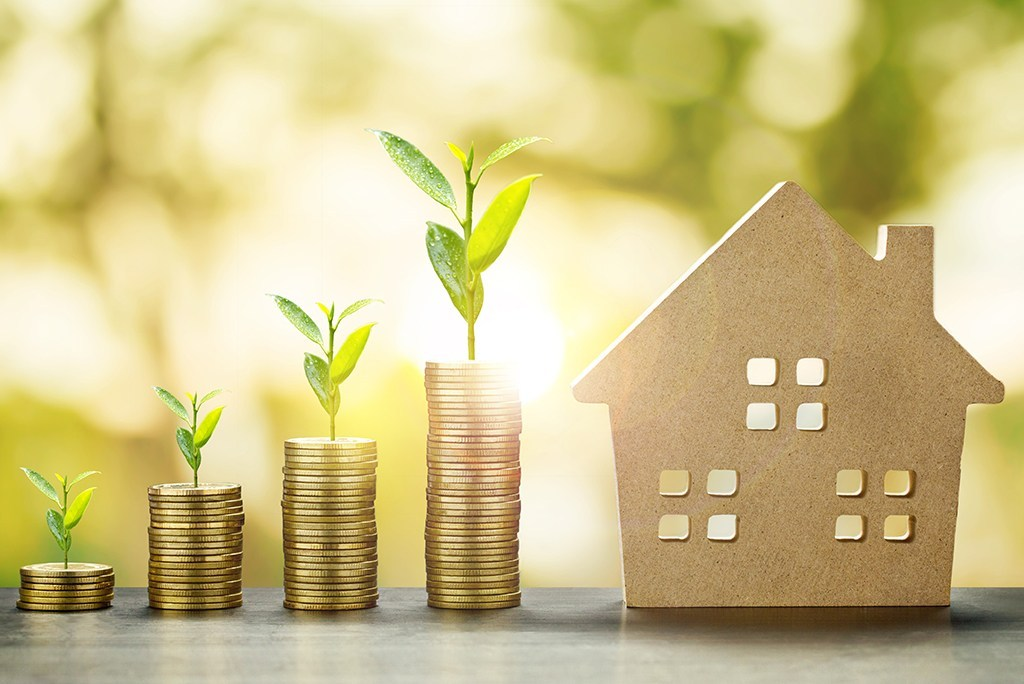
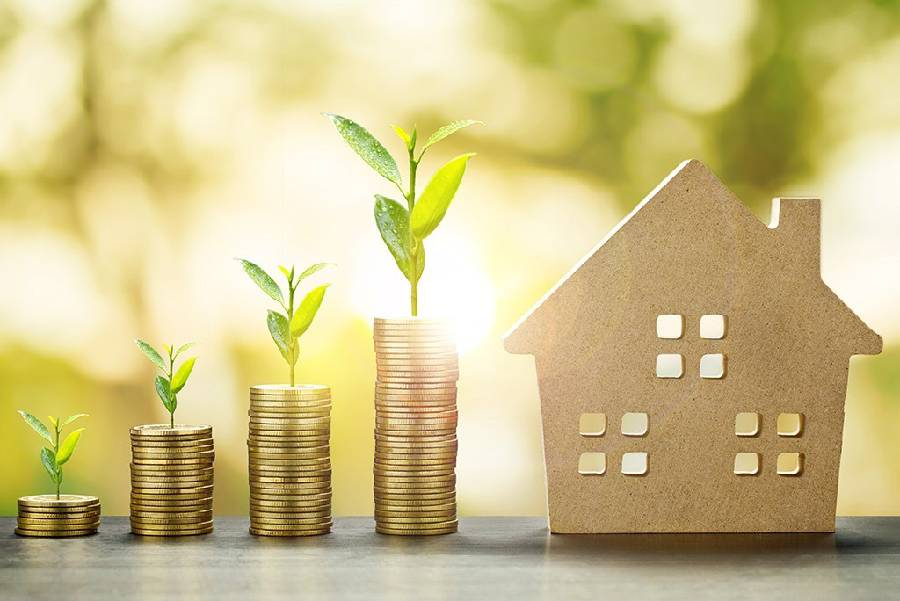
Carousel is working

diff --git a/src/components/Carousel.jsx b/src/components/Carousel.jsx
@@ -1,22 +1,22 @@
 import React from 'react'
-import image1 from '../images/1.jpg'
-import image2 from '../images/2.jpg'
-import image3 from '../images/3.jpg'
+import image1 from '../images/2.jpg'
+import image2 from '../images/3.jpg'
+import image3 from '../images/4.jpg'
 
 function Carosel(){
 return(
-    <div id="carouselExampleControls" className="carousel slide" data-ride="carousel">
+    <div id="carouselExampleControls" className="carousel slide w-75" data-ride="carousel">
 
         <div className="carousel-inner">
-            <div className="carousel-inner">
+            <div className="carousel-item active">
                 <img class="d-block w-100" src={image1} alt="First slide"></img>
             </div>
-            {/* <div className="carousel-inner">
+            <div className="carousel-item">
                 <img class="d-block w-100" src={image2} alt="second slide"></img>
             </div>
-            <div className="carousel-inner">
+            <div className="carousel-item">
                 <img class="d-block w-100" src={image3} alt="third slide"></img>
-            </div> */}
+            </div>
         </div>
      
         <a class="carousel-control-prev" href="#carouselExampleControls" role="button" data-slide="prev">

diff --git a/public/index.html b/public/index.html
@@ -11,7 +11,7 @@
     />
     <!-- <link rel="apple-touch-icon" href="%PUBLIC_URL%/logo192.png" /> -->
     <!-- Font awesome -->
-    <link rel="stylesheet" href="https://pro.fontawesome.com/releases/v5.10.0/css/all.css" integrity="sha384-AYmEC3Yw5cVb3ZcuHtOA93w35dYTsvhLPVnYs9eStHfGJvOvKxVfELGroGkvsg+p" crossorigin="anonymous"/>
+    <link rel="stylesheet" href="https://pro.fontawesome.com/releases/latest/css/all.css" integrity="sha384-AYmEC3Yw5cVb3ZcuHtOA93w35dYTsvhLPVnYs9eStHfGJvOvKxVfELGroGkvsg+p" crossorigin="anonymous"/>
     
     <title>Smart Cents</title>
 
